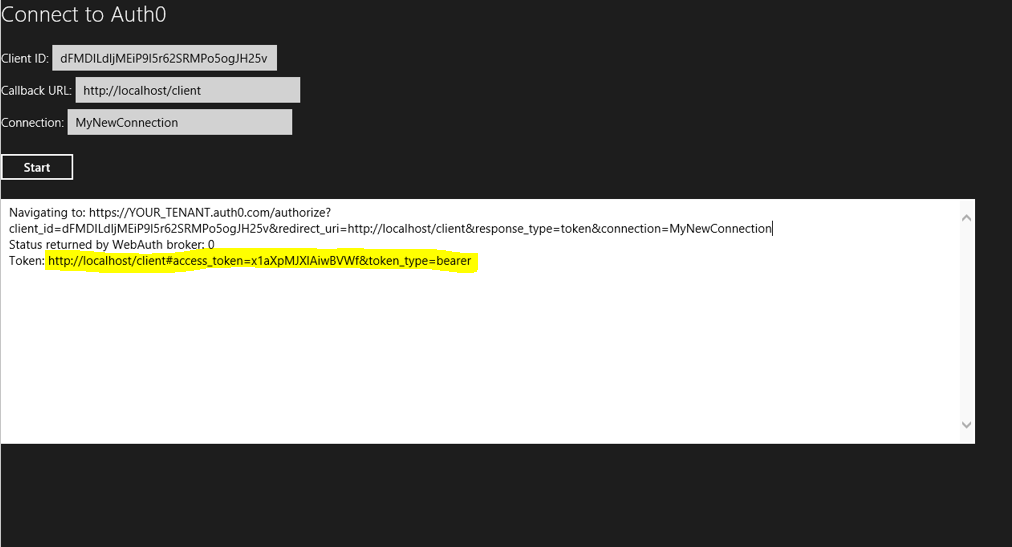
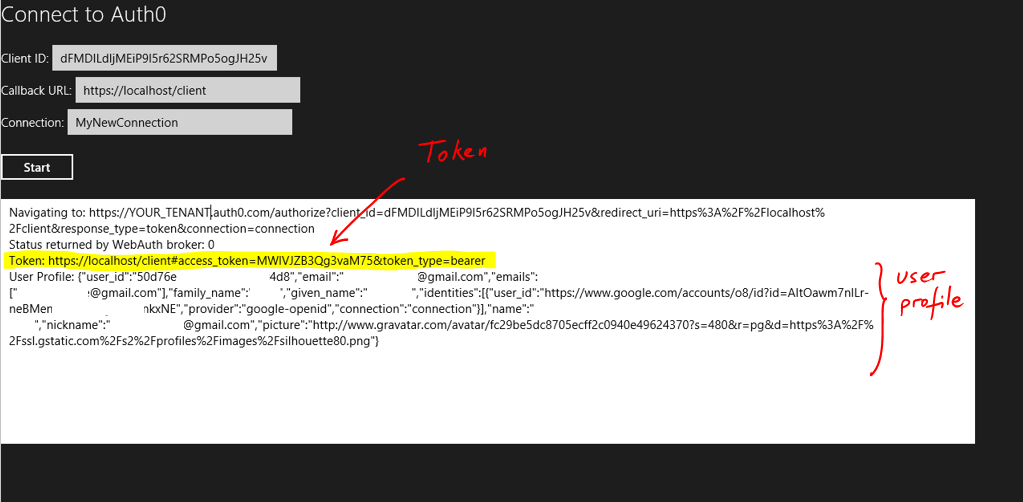
added call to userinfo in win8 sample

Changed region(s): [[0.0, 0.0, 0.9802, 0.8964], [0.3982, 0.2689, 0.4901, 0.3287]]

diff --git a/docs/win8-tutorial.md b/docs/win8-tutorial.md
@@ -76,12 +76,23 @@ Under the __js__ folder, create new file named __auth0.js__ with the following c
 	            Windows.Security.Authentication.Web.WebAuthenticationOptions.none, startURI, endURI)
 	            .done(function (result) {
 
+	                if (result.responseStatus === Windows.Security.Authentication.Web.WebAuthenticationStatus.errorHttp) {
+	                    log("Error returned: " + result.responseErrorDetail);
+	                    return;
+	                }
+
 	                log("Status returned by WebAuth broker: " + result.responseStatus);
 	                log("Token: " + result.responseData);
 
-	                if (result.responseStatus === Windows.Security.Authentication.Web.WebAuthenticationStatus.errorHttp) {
-	                    log("Error returned: " + result.responseErrorDetail);
-	                }
+	                // Quick and dirty parsing of the access_token
+	                var access_token = result.responseData.split("#")[1].split("&")[0];
+	                WinJS.xhr({ url: "https://@@account.namespace@@/userinfo/?" + access_token, responseType: "json" })
+	                            .done(function complete(result) {
+	                                log("User Profile: " + result.responseText);
+	                            },
+	                                  function (err) {
+	                                      log("Error in getting user profile: " + err.responseData);
+	                                  });
 
 	            }, function (err) {
 	                log(" Error Message: " + err.message);
@@ -101,7 +112,7 @@ Compile the App and run it. Assuming your connection (__MyNewConnection__ in thi
 
 ![](img/win8-step2.png) 
 
-After authentication the returned token will appear on the debug area:
+After authentication the returned token will appear on the debug area together with the user profile (notice the chained call to the https://@@account.namespace@@/userinfo endpoint):
 
 ![](img/win8-step3.png) 
 
